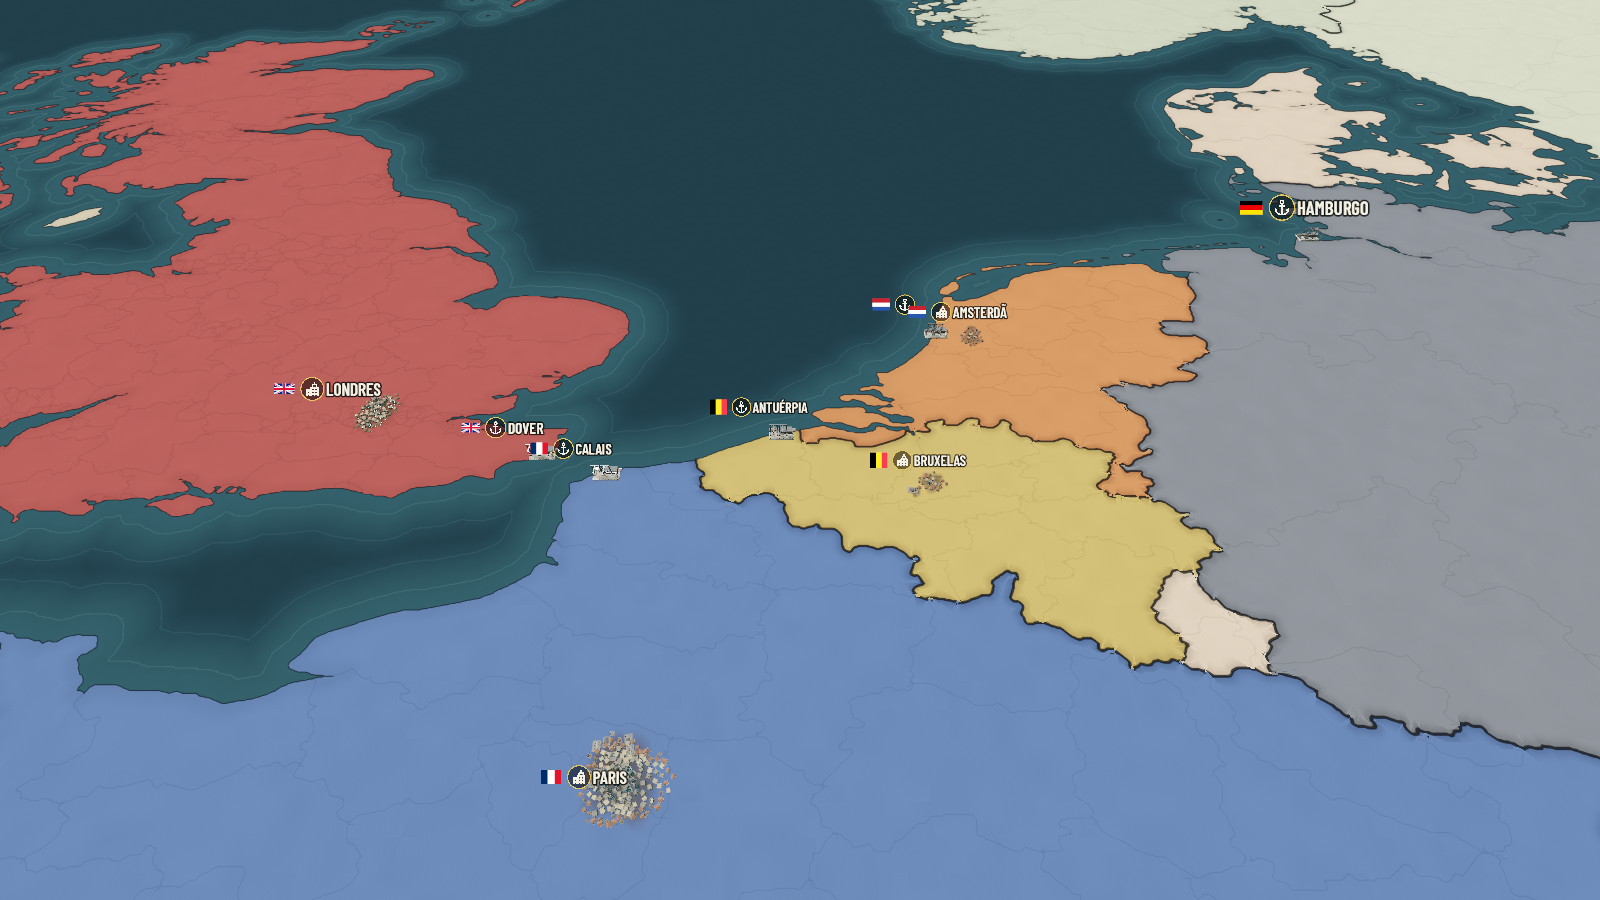
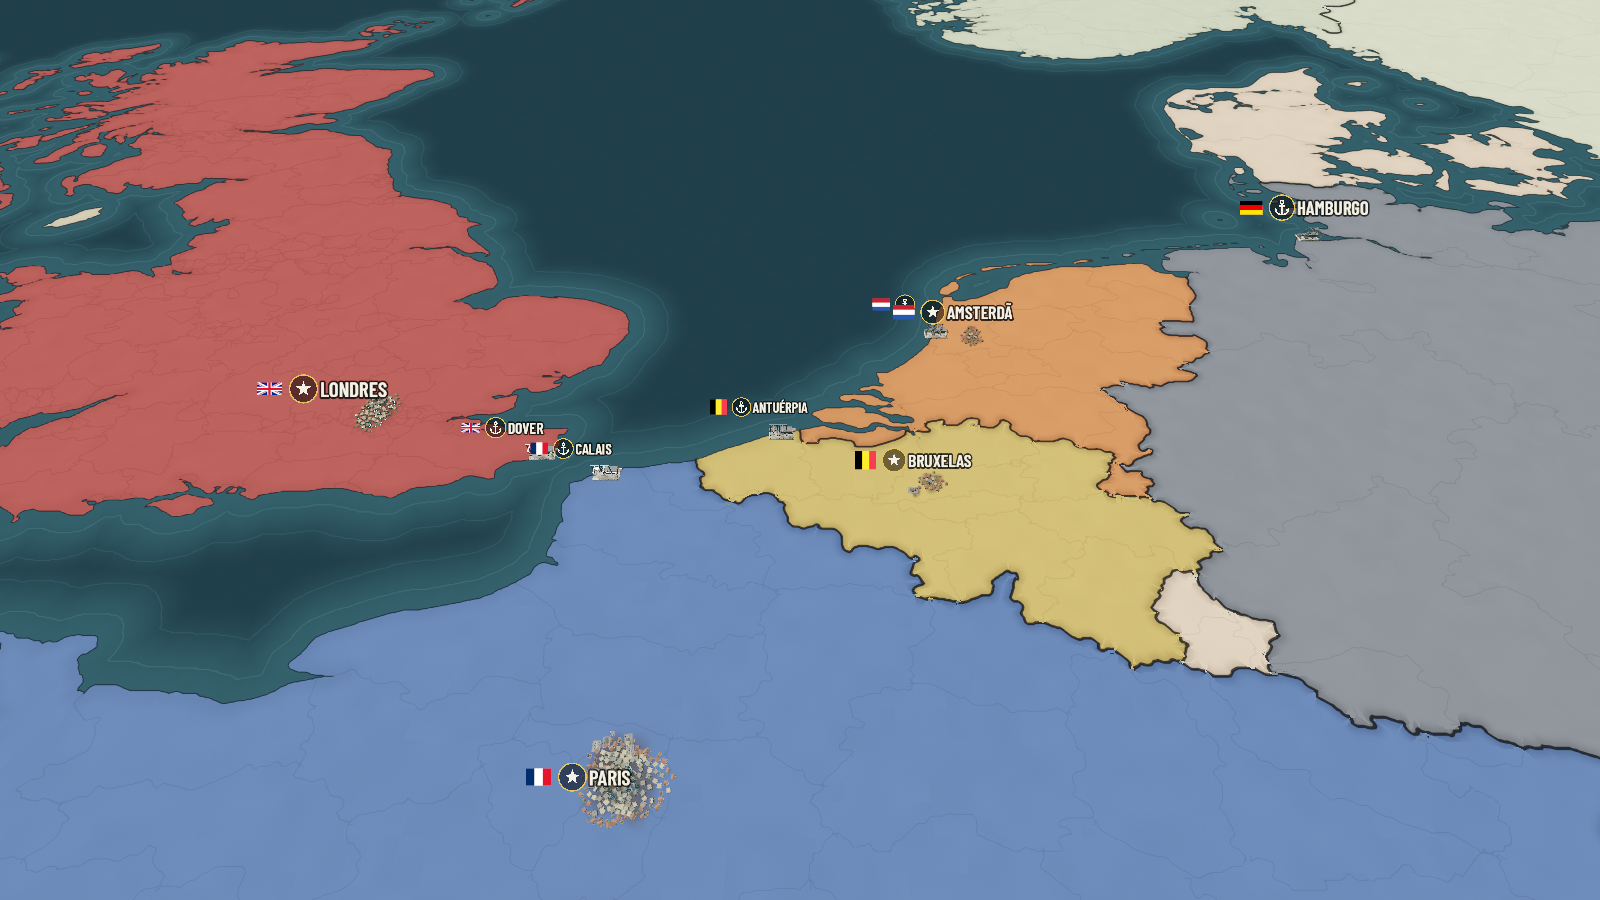
fix(map): capital lida do cities.json (status do nucleo nao devolve)
O EconomySim.initialize copia apenas id/nation/home_nation/name/x/y/landmass, entao city.get('capital') era sempre falso e a estrela nunca aparecia. CityWorld agora carrega a flag capital direto do cenario (cities.json) e usa no tamanho do rotulo e no icone do selo.

diff --git a/GAME_STATE.md b/GAME_STATE.md
@@ -258,7 +258,7 @@ Arquivos: `gdextension/src/economy_sim.cpp` (regras), `core/economy/economy.gd` 
 | D-012 | Modo político usa base atlas (chapado); demais modos usam satélite | Leitura clara de fronteiras no modo principal; satélite preservado para contexto físico |
 | D-013 | Câmera estilo HOI3: rotação desabilitada, edge scroll, drag pan, pitch limitado | Mapa fixo norte para cima; navegação intuitiva para jogadores de grand strategy |
 | D-014 | Minimapa no canto inferior direito; mundo flat com vinheta de latitude | Orientação global sem custo de globo esférico; vinheta esconde bordas do mundo |
-| D-015 | Rótulos padronizados; capital (coluna `capital` do CSV) fica um pouco maior e usa estrela no selo; fade por distância | Capitais mais visíveis sem variar o tamanho pelo tipo de cidade |
+| D-015 | Rótulos padronizados; capital (coluna `capital` do CSV, lida direto do `cities.json` porque o status do núcleo não a carrega) fica um pouco maior e usa estrela no selo; fade por distância | Capitais mais visíveis sem variar o tamanho pelo tipo de cidade |
 | D-018 | Território = províncias admin-1 controladas por cidades; dono = nação da cidade no status do Economy | Fronteiras mudam sozinhas quando uma cidade muda de nação, sem estado paralelo. Fronteira só corre por divisas de província reais. Evidência: `tools/territory_test.gd`, `docs/map_visual/territory_static/` e `territory_bel_fra/` |
 | D-017 | Sem diorama/mesa 3D, props, luminária, sombras reais nem globo; o mapa atlas atual é a apresentação | Escopo de projeto pequeno (decisão do usuário). Mantidos só o limite elástico da câmera em Z e uma vinheta 2D de tela; o wrap em X continua |
 | D-016 | Mapa político a partir de campos de distância com sinal (vetores Natural Earth), não de máscaras raster | Máscaras de 8–16 km/px ampliadas viravam escadinha; o SDF dá linhas nítidas em qualquer zoom numa passada opaca. Regenerar com `python tools/build_atlas_layers.py` (requer pyshp, scipy) |
